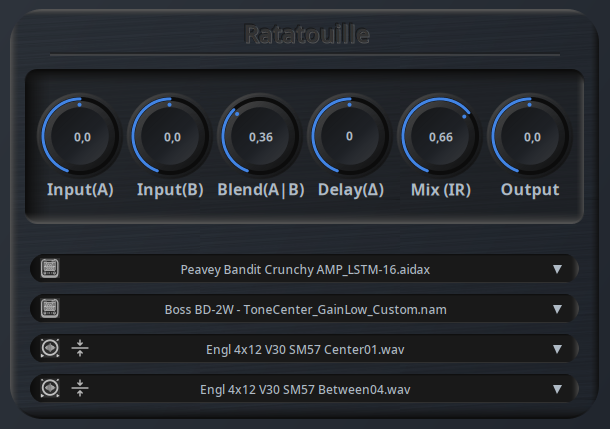
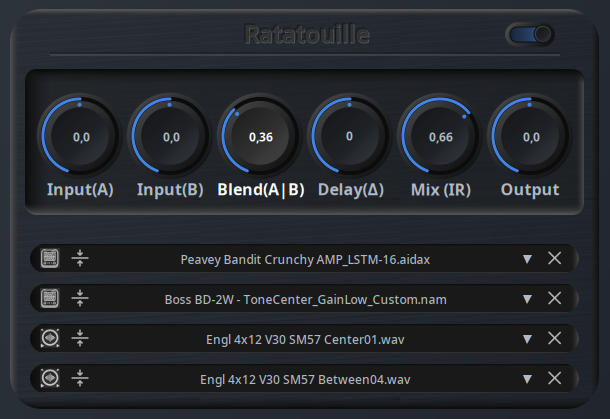
Add erase button to default GUI

diff --git a/Ratatouille/Ratatouille.c b/Ratatouille/Ratatouille.c
@@ -7,7 +7,7 @@
  */
 
 
-#define CONTROLS 11
+#define CONTROLS 15
 
 #define GUI_ELEMENTS 0
 
@@ -373,39 +373,45 @@ void plugin_create_controller_widgets(X11_UI *ui, const char * plugin_uri) {
     set_widget_color(ui->widget[1], 0, 0, 0.259, 0.518, 0.894, 1.0);
     set_widget_color(ui->widget[1], 0, 3,  0.686, 0.729, 0.773, 1.0);
 
-    ps->ma.fbutton = add_lv2_button(ps->ma.fbutton, ui->win, "", ui, 545,  244, 22, 30);
+    ps->ma.fbutton = add_lv2_button(ps->ma.fbutton, ui->win, "", ui, 515,  244, 22, 30);
     ps->ma.fbutton->parent_struct = (void*)&ps->ma;
     combobox_set_pop_position(ps->ma.fbutton, 0);
-    combobox_set_entry_length(ps->ma.fbutton, 64);
+    combobox_set_entry_length(ps->ma.fbutton, 60);
     combobox_add_entry(ps->ma.fbutton, "None");
     ps->ma.fbutton->func.value_changed_callback = file_menu_callback;
 
-    ps->mb.fbutton = add_lv2_button(ps->mb.fbutton, ui->win, "", ui, 545,  284, 22, 30);
+    ps->mb.fbutton = add_lv2_button(ps->mb.fbutton, ui->win, "", ui, 515,  284, 22, 30);
     ps->mb.fbutton->parent_struct = (void*)&ps->mb;
     combobox_set_pop_position(ps->mb.fbutton, 0);
-    combobox_set_entry_length(ps->mb.fbutton, 64);
+    combobox_set_entry_length(ps->mb.fbutton, 60);
     combobox_add_entry(ps->mb.fbutton, "None");
     ps->mb.fbutton->func.value_changed_callback = file_menu_callback;
 
     ui->widget[8] = add_lv2_toggle_button (ui->widget[8], ui->win, 12, "", ui, 70,  248, 25, 25);
     ui->widget[9] = add_lv2_toggle_button (ui->widget[9], ui->win, 13, "", ui, 70,  288, 25, 25);
 
-    ps->ir.fbutton = add_lv2_button(ps->ir.fbutton, ui->win, "", ui, 545,  324, 22, 30);
+    ui->widget[11] = add_lv2_erase_button (ui->widget[11], ui->win, 15, "", ui, 545,  248, 25, 25);
+    ui->widget[12] = add_lv2_erase_button (ui->widget[12], ui->win, 16, "", ui, 545,  288, 25, 25);
+
+    ps->ir.fbutton = add_lv2_button(ps->ir.fbutton, ui->win, "", ui, 515,  324, 22, 30);
     ps->ir.fbutton->parent_struct = (void*)&ps->ir;
     combobox_set_pop_position(ps->ir.fbutton, 0);
-    combobox_set_entry_length(ps->ir.fbutton, 64);
+    combobox_set_entry_length(ps->ir.fbutton, 60);
     combobox_add_entry(ps->ir.fbutton, "None");
     ps->ir.fbutton->func.value_changed_callback = file_menu_callback;
 
-    ps->ir1.fbutton = add_lv2_button(ps->ir1.fbutton, ui->win, "", ui, 545,  364, 22, 30);
+    ps->ir1.fbutton = add_lv2_button(ps->ir1.fbutton, ui->win, "", ui, 515,  364, 22, 30);
     ps->ir1.fbutton->parent_struct = (void*)&ps->ir1;
     combobox_set_pop_position(ps->ir1.fbutton, 0);
-    combobox_set_entry_length(ps->ir1.fbutton, 64);
+    combobox_set_entry_length(ps->ir1.fbutton, 60);
     combobox_add_entry(ps->ir1.fbutton, "None");
     ps->ir1.fbutton->func.value_changed_callback = file_menu_callback;
 
     ui->widget[5] = add_lv2_toggle_button (ui->widget[5], ui->win, 9, "", ui, 70,  328, 25, 25);
     ui->widget[6] = add_lv2_toggle_button (ui->widget[6], ui->win, 10, "", ui, 70,  368, 25, 25);
+
+    ui->widget[13] = add_lv2_erase_button (ui->widget[13], ui->win, 17, "", ui, 545,  328, 25, 25);
+    ui->widget[14] = add_lv2_erase_button (ui->widget[14], ui->win, 18, "", ui, 545,  368, 25, 25);
 }
 
 void plugin_cleanup(X11_UI *ui) {

diff --git a/Ratatouille/Ratatouille.cpp b/Ratatouille/Ratatouille.cpp
@@ -684,31 +684,33 @@ void Xratatouille::run_dsp_(uint32_t n_samples)
         }
     }
 
-    if ((*_eraseSlotA)) {
-        _ab.store(1, std::memory_order_release);
-         model_file = "None";
-        _execute.store(true, std::memory_order_release);
-        xrworker.runProcess();
-        (*_eraseSlotA) = 0.0;
-    } else if ((*_eraseSlotB)) {
-        _ab.store(2, std::memory_order_release);
-         model_file1 = "None";
-        _execute.store(true, std::memory_order_release);
-        xrworker.runProcess();
-        (*_eraseSlotB) = 0.0;
-    } else if ((*_eraseIr)) {
-        _ab.store(7, std::memory_order_release);
-         ir_file = "None";
-        _execute.store(true, std::memory_order_release);
-        xrworker.runProcess();
-        (*_eraseIr) = 0.0;
-    } else if ((*_eraseIr1)) {
-        _ab.store(8, std::memory_order_release);
-         ir_file1 = "None";
-        _execute.store(true, std::memory_order_release);
-        xrworker.runProcess();
-        (*_eraseIr1) = 0.0;
-    } 
+    if (!_execute.load(std::memory_order_acquire)) {
+        if ((*_eraseSlotA)) {
+            _ab.store(1, std::memory_order_release);
+             model_file = "None";
+            _execute.store(true, std::memory_order_release);
+            xrworker.runProcess();
+            (*_eraseSlotA) = 0.0;
+        } else if ((*_eraseSlotB)) {
+            _ab.store(2, std::memory_order_release);
+             model_file1 = "None";
+            _execute.store(true, std::memory_order_release);
+            xrworker.runProcess();
+            (*_eraseSlotB) = 0.0;
+        } else if ((*_eraseIr)) {
+            _ab.store(7, std::memory_order_release);
+             ir_file = "None";
+            _execute.store(true, std::memory_order_release);
+            xrworker.runProcess();
+            (*_eraseIr) = 0.0;
+        } else if ((*_eraseIr1)) {
+            _ab.store(8, std::memory_order_release);
+             ir_file1 = "None";
+            _execute.store(true, std::memory_order_release);
+            xrworker.runProcess();
+            (*_eraseIr1) = 0.0;
+        }
+    }
 
     if (!_execute.load(std::memory_order_acquire) && _restore.load(std::memory_order_acquire)) {
         _execute.store(true, std::memory_order_release);

diff --git a/Ratatouille/lv2_plugin.cc b/Ratatouille/lv2_plugin.cc
@@ -665,7 +665,7 @@ void draw_my_button(void *w_, void* user_data) {
 
 Widget_t* add_lv2_button(Widget_t *w, Widget_t *p, const char * label,
                                 X11_UI* ui, int x, int y, int width, int height) {
-    w = add_combobox(p, label, x-445, y, width+445, height);
+    w = add_combobox(p, label, x-415, y, width+415, height);
     w->parent_struct = ui;
     w->func.expose_callback = dummy_expose;
     w->childlist->childs[0]->func.expose_callback = draw_my_button;
@@ -814,6 +814,17 @@ Widget_t* add_lv2_toggle_button(Widget_t *w, Widget_t *p, PortIndex index, const
     w->parent_struct = ui;
     w->data = index;
     widget_get_png(w, LDVAR(norm_png));
+    w->func.expose_callback = draw_i_button;
+    w->func.value_changed_callback = value_changed;
+    return w;
+}
+
+Widget_t* add_lv2_erase_button(Widget_t *w, Widget_t *p, PortIndex index, const char * label,
+                                X11_UI* ui, int x, int y, int width, int height) {
+    w = add_image_button(p, "", x, y, width, height);
+    w->parent_struct = ui;
+    w->data = index;
+    widget_get_png(w, LDVAR(eject_png));
     w->func.expose_callback = draw_i_button;
     w->func.value_changed_callback = value_changed;
     return w;

diff --git a/Ratatouille/lv2_plugin.h b/Ratatouille/lv2_plugin.h
@@ -109,6 +109,9 @@ Widget_t* add_lv2_irfile_button(Widget_t *w, Widget_t *p, PortIndex index, const
 Widget_t* add_lv2_toggle_button(Widget_t *w, Widget_t *p, PortIndex index, const char * label,
                                 X11_UI* ui, int x, int y, int width, int height);
 
+Widget_t* add_lv2_erase_button(Widget_t *w, Widget_t *p, PortIndex index, const char * label,
+                                X11_UI* ui, int x, int y, int width, int height);
+
 // free used mem on exit
 void plugin_cleanup(X11_UI *ui);
 
